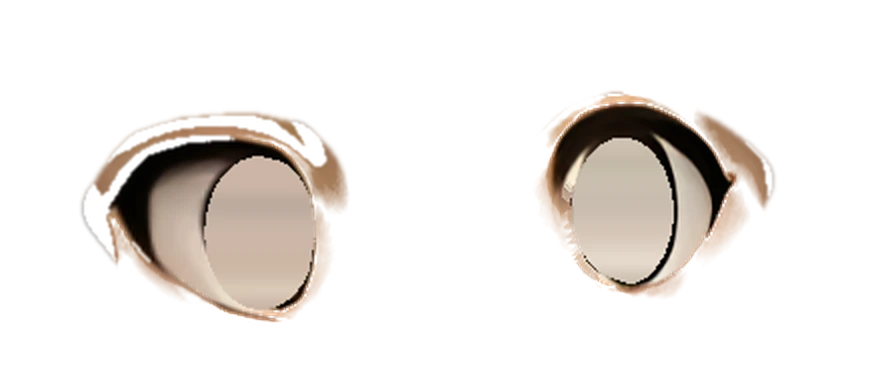
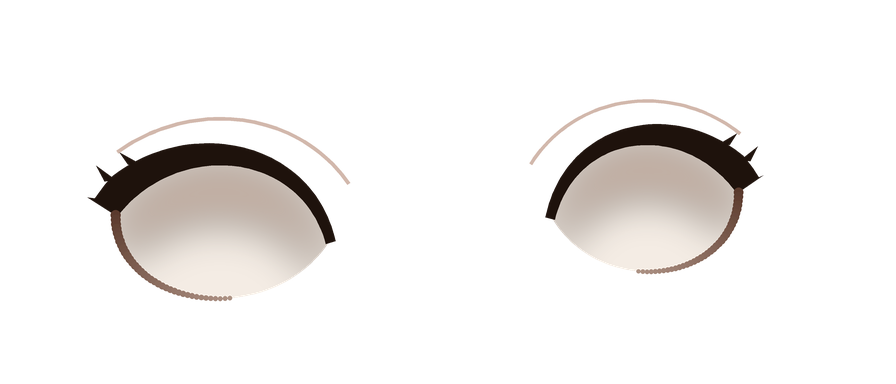
Her eyes repainted after the turnaround sheet: bigger rounder openings (decal + blink lids enlarged together), thick upper lash line thickening to the outer corner with a short wing and flicks, thin warm lower lid line on the outer two-thirds, soft lid shadow on the whites, faint crease; larger warm

Changed region(s): [[0.0625, 0.2812, 0.4062, 0.8438], [0.5938, 0.2188, 0.875, 0.7812]]

diff --git a/index.html b/index.html
@@ -5624,7 +5624,7 @@ const CharView = (() => {
       eyesF: [[-32.6, -14.1, -7.3, 3.4], [14.2, 33.4, -7.8, 3.6]], pe: 120, skin: '#d2a87f' },
     f: { K: 0.0023, xref: 730.4, rows: [[0.132, 0, -0.012, -0.012], [0.12, 0.058, 0.05, -0.078], [0.1, 0.085, 0.078, -0.106], [0.07, 0.1, 0.095, -0.12], [0.04, 0.106, 0.103, -0.125], [0.01, 0.106, 0.104, -0.124], [-0.015, 0.104, 0.1, -0.121], [-0.03, 0.101, 0.096, -0.117], [-0.045, 0.097, 0.097, -0.108], [-0.053, 0.094, 0.098, -0.096], [-0.065, 0.087, 0.099, -0.064], [-0.085, 0.077, 0.104, -0.028], [-0.1, 0.068, 0.1, -0.005], [-0.114, 0.055, 0.092, 0.02], [-0.127, 0.04, 0.087, 0.046], [-0.136, 0.029, 0.084, 0.064], [-0.142, 0.019, 0.082, 0.073], [-0.146, 0.009, 0.08, 0.077], [-0.148, 0, 0.079, 0.079]],
       nose: [[-0.022, 0], [-0.032, 0.002], [-0.043, 0.0045], [-0.053, 0.0095], [-0.061, 0.0165], [-0.066, 0.02], [-0.071, 0.0135], [-0.077, 0.004], [-0.082, 0]], lips: [-0.088, 0.0055], relief: { eye: [0.053, -0.028], ck: 0.8 }, ear: [-0.047, -0.052],
-      eyesF: [[-40.6, -16.5, -8.8, 11], [14.4, 35.5, -11.3, 7.6]], pe: 179.4, skin: '#d6a784' } };
+      eyesF: [[-42.1, -15.0, -10.0, 12.2], [13.1, 36.8, -12.4, 8.7]], pe: 179.4, skin: '#d6a784' } };
   // body skin (neck, hands, legs): the face atlas's median skin with the same tint, Lambert lighting and emissive lift as the projected head, so there is no tone step at the jaw
   // soft anime shading on skin: a gentle, wide gradient away from the key light (far cheek, under the chin), on top of the flat concept colour;
   // on the head it is masked off the front of the face (eyes, nose, mouth) except the underside of the jaw

diff --git a/src/char3d.js b/src/char3d.js
@@ -601,7 +601,7 @@ const CharView = (() => {
       eyesF: [[-32.6, -14.1, -7.3, 3.4], [14.2, 33.4, -7.8, 3.6]], pe: 120, skin: '#d2a87f' },
     f: { K: 0.0023, xref: 730.4, rows: [[0.132, 0, -0.012, -0.012], [0.12, 0.058, 0.05, -0.078], [0.1, 0.085, 0.078, -0.106], [0.07, 0.1, 0.095, -0.12], [0.04, 0.106, 0.103, -0.125], [0.01, 0.106, 0.104, -0.124], [-0.015, 0.104, 0.1, -0.121], [-0.03, 0.101, 0.096, -0.117], [-0.045, 0.097, 0.097, -0.108], [-0.053, 0.094, 0.098, -0.096], [-0.065, 0.087, 0.099, -0.064], [-0.085, 0.077, 0.104, -0.028], [-0.1, 0.068, 0.1, -0.005], [-0.114, 0.055, 0.092, 0.02], [-0.127, 0.04, 0.087, 0.046], [-0.136, 0.029, 0.084, 0.064], [-0.142, 0.019, 0.082, 0.073], [-0.146, 0.009, 0.08, 0.077], [-0.148, 0, 0.079, 0.079]],
       nose: [[-0.022, 0], [-0.032, 0.002], [-0.043, 0.0045], [-0.053, 0.0095], [-0.061, 0.0165], [-0.066, 0.02], [-0.071, 0.0135], [-0.077, 0.004], [-0.082, 0]], lips: [-0.088, 0.0055], relief: { eye: [0.053, -0.028], ck: 0.8 }, ear: [-0.047, -0.052],
-      eyesF: [[-40.6, -16.5, -8.8, 11], [14.4, 35.5, -11.3, 7.6]], pe: 179.4, skin: '#d6a784' } };
+      eyesF: [[-42.1, -15.0, -10.0, 12.2], [13.1, 36.8, -12.4, 8.7]], pe: 179.4, skin: '#d6a784' } };
   // body skin (neck, hands, legs): the face atlas's median skin with the same tint, Lambert lighting and emissive lift as the projected head, so there is no tone step at the jaw
   // soft anime shading on skin: a gentle, wide gradient away from the key light (far cheek, under the chin), on top of the flat concept colour;
   // on the head it is masked off the front of the face (eyes, nose, mouth) except the underside of the jaw
